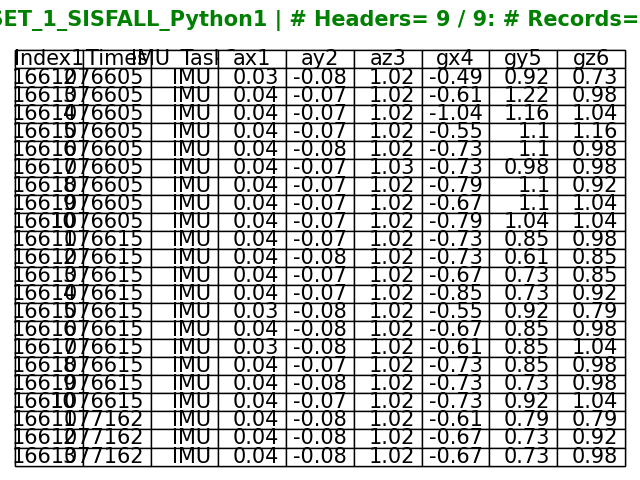
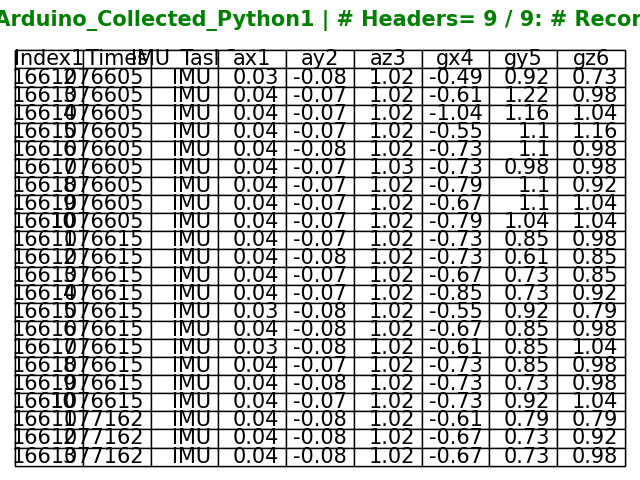
lusakax1

Changed region(s): [[0.0, 0.0, 1.0, 0.0625]]

diff --git a/ProjectB_sensor/SensorBData.py b/ProjectB_sensor/SensorBData.py
@@ -75,7 +75,7 @@ ax1 = ax.table(cellText=df4.values, colLabels=df4.columns,
 ax1.auto_set_font_size(False)
 ax1.set_fontsize(sizingFont)
 plt.suptitle(lablel5)
-plt.suptitle('DATASET_1_SISFALL_Python1 | # Headers= '+str(c) + ' / '+str(c2) +
+plt.suptitle('DATASET_Arduino_Collected_Python1 | # Headers= '+str(c) + ' / '+str(c2) +
           ': # Records='+str(l)+'/'+str(l2)+'|', fontsize=sizingFont, color='green', fontweight="bold")
 plt.tight_layout()
 plt.axis('tight')
@@ -101,10 +101,10 @@ ax1 = ax.table(cellText=df4.values, colLabels=df4.columns,
 ax1.auto_set_font_size(False)
 ax1.set_fontsize(sizingFont)
 plt.suptitle(lablel5)
-plt.suptitle('DATASET_2_SISFALL_Python2 | # Headers= '+str(c) + ' / '+str(c2) +
+plt.suptitle('DATASET_Arduino_Collected_Python2 | # Headers= '+str(c) + ' / '+str(c2) +
           ': # Records='+str(l)+'/'+str(l2)+'|', fontsize=sizingFont, color='green', fontweight="bold")
-plt.axis('tight')
-plt.tight_layout()
+# plt.axis('tight')
+# plt.tight_layout()
 plt.savefig('../uxviews/ProjectA/ProjectAX2.png')
 plt.show()
 print(datax.head(2))
